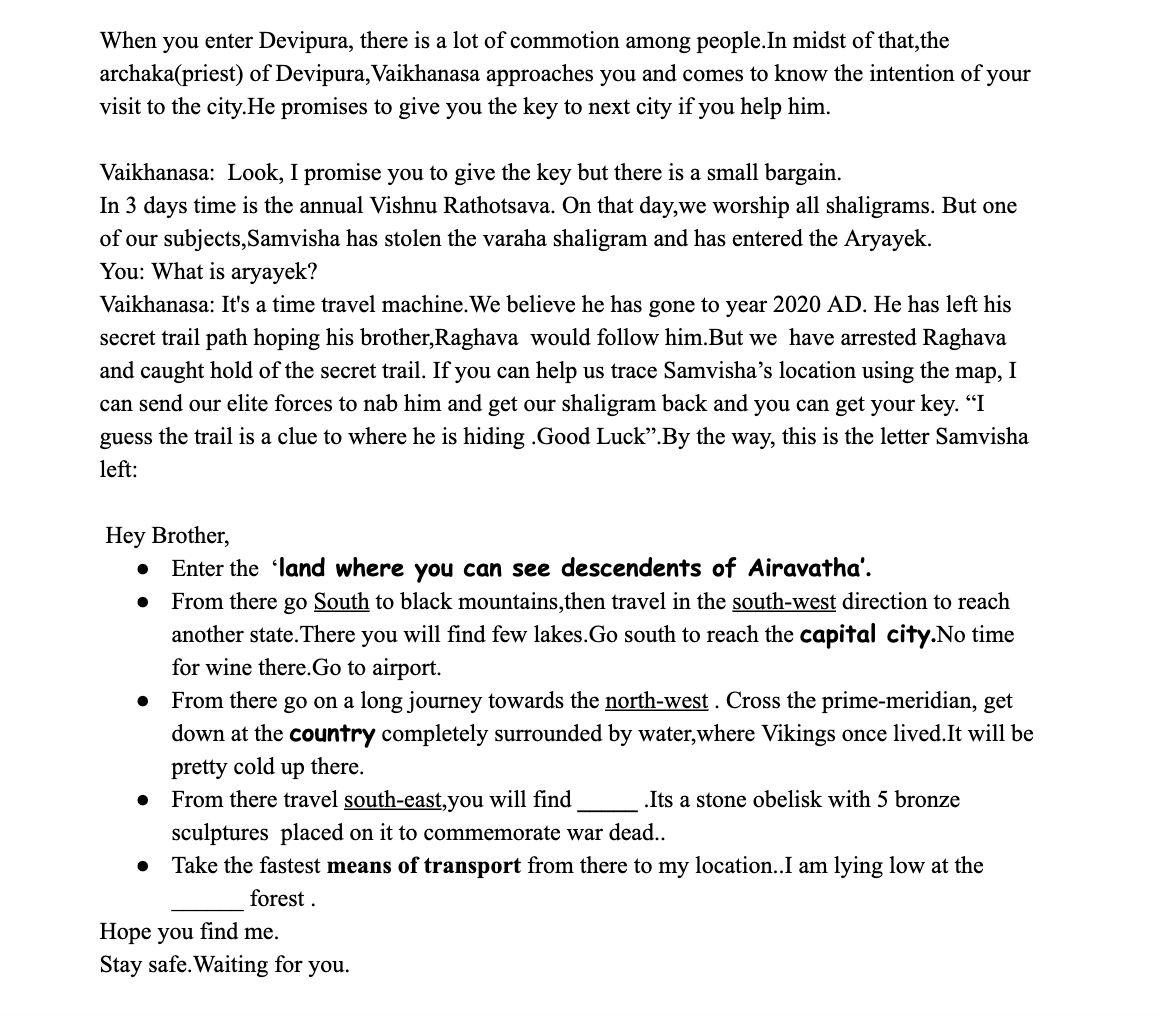
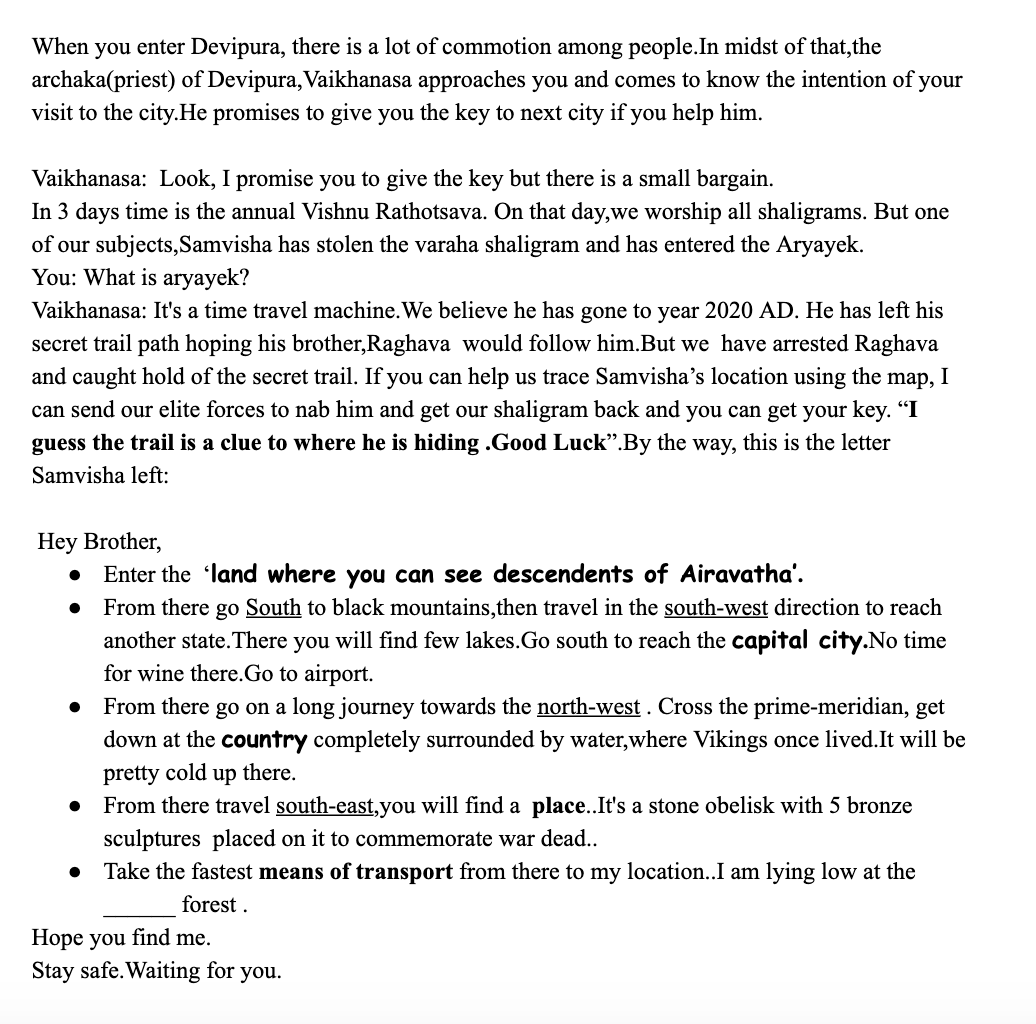
day2 changes

Changed region(s): [[0.0309, 0.5187, 0.9266, 0.9764], [0.0309, 0.1526, 0.9266, 0.4882], [0.0309, 0.0305, 0.9266, 0.122]]

diff --git a/src/app/pages/question/question.component.ts b/src/app/pages/question/question.component.ts
@@ -93,7 +93,7 @@ export class QuestionComponent implements OnInit {
   getDayObject(){
     var dayObj : DayImageDetails = null;
     switch(this.teamDay){
-      case 1: dayObj = this.imageDetails.day1; this.cityName = "Devipura"; this.cityPos="first"; this.placeholder="Enter forest name"; break;
+      case 1: dayObj = this.imageDetails.day1; this.cityName = "Devipura"; this.cityPos="first"; this.placeholder="Enter forest"; break;
       case 2: dayObj = this.imageDetails.day2; this.cityName = "Teshwasara";this.cityPos="second";  break;
       case 3: dayObj = this.imageDetails.day3; this.cityName = "Thirdapura";this.cityPos="third"; break;
       case 4: dayObj = this.imageDetails.day4; this.cityName = "Fourthapura";this.cityPos="fourth"; break;

diff --git a/src/app/pages/question/question.component.html b/src/app/pages/question/question.component.html
@@ -44,6 +44,7 @@
                     <h3 *ngIf="hintUnlocked" style="color: green;">{{hintText}}</h3>
                     <button *ngIf="showSolvePuzzleButton" mat-raised-button routerLink="/puzzles">Solve puzzles</button>
                     <h3 style="color: red;">{{answerStatus}}</h3>
+                    <h4 style="font-weight: bold;" *ngIf="placeholder">The royal guards on searching raghava's cottage have found few winter essentials</h4>
                 </mat-card-content>
                 <mat-card-actions >
                     <button mat-raised-button (click)="getHint()" [disabled]="gotHint">

diff --git a/src/app/backend-services.ts b/src/app/backend-services.ts
@@ -7,8 +7,8 @@ import { StateManagementService } from './state-management.service';
 @Injectable({providedIn: 'root'})
 export class BackendServices{
 
-    // backendUrl = "http://192.168.113.6:8081";
-    backendUrl = "http://localhost:8081";
+    backendUrl = "http://192.168.113.6:8081";
+    // backendUrl = "http://localhost:8081";
     pointsEventEmitter = new EventEmitter();
     constructor(private httpClient: HttpClient, private stateMgmtService: StateManagementService){}
     

diff --git a/src/app/state-management.service.ts b/src/app/state-management.service.ts
@@ -8,8 +8,8 @@ import { map } from 'rxjs/operators';
 @Injectable({providedIn: 'root'})
 export class StateManagementService{
     
-    // backendUrl = "http://192.168.113.6:8081";
-    backendUrl = "http://localhost:8081";
+    backendUrl = "http://192.168.113.6:8081";
+    // backendUrl = "http://localhost:8081";
     username: string;
     teamName: string;
     userType: string;
